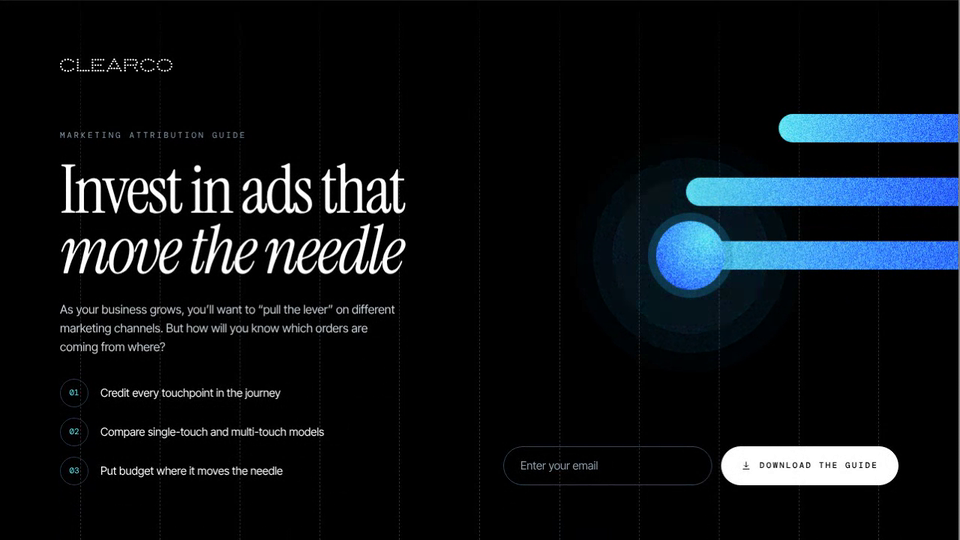
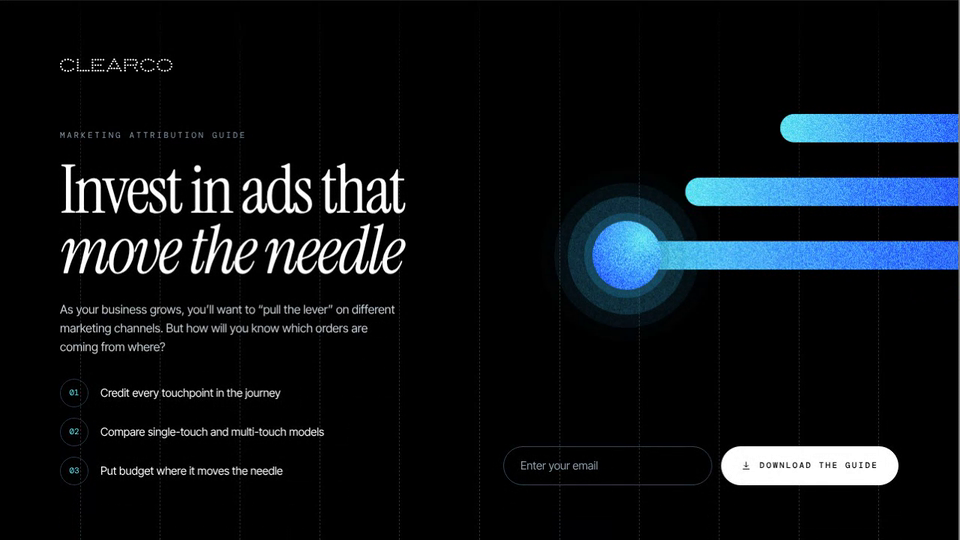
Attribution Guide: nested circles in chapter one and trail band, longer hero bar (#140)
* Add Clearco Attribution Guide landing page

Built on the Logistics Guide page with the attribution guide's brand: grainy gradient timeline pills that extend with a circle on the leading end, ripple discs, dashed guide lines, gradient numerals, and a model explorer whose vertical pills reshape per attribution model. Adds the homepage tile and clip recipe.

Claude-Session: https://claude.ai/code/session_01AHeBdyii5AjQS77wpPRRok

* Attribution Guide: remove the Track every touchpoint text and ripple circle

Claude-Session: https://claude.ai/code/session_01AHeBdyii5AjQS77wpPRRok

* Attribution Guide: hero email sign-up in the right column under the pills, divider under the hero, square edge on pills that bleed off screen

Claude-Session: https://claude.ai/code/session_01AHeBdyii5AjQS77wpPRRok

* Attribution Guide: remove the dotted background lines from the touchpoint section

Claude-Session: https://claude.ai/code/session_01AHeBdyii5AjQS77wpPRRok

* Attribution Guide: hero visual moved up; re-record clip

Claude-Session: https://claude.ai/code/session_01AHeBdyii5AjQS77wpPRRok

* Attribution Guide: narrower body text columns

Claude-Session: https://claude.ai/code/session_01AHeBdyii5AjQS77wpPRRok

* Attribution Guide: lower hero visual with tighter bars, circle and double ripple timed to the pill, sign-up aligned to the 03 row, heading line break

Claude-Session: https://claude.ai/code/session_01AHeBdyii5AjQS77wpPRRok
[…]

diff --git a/clearco-attribution-guide/index.html b/clearco-attribution-guide/index.html
@@ -68,8 +68,8 @@ section,.band{position:relative;overflow:hidden}
 .pr{right:0;border-radius:99px 0 0 99px;background:linear-gradient(270deg,var(--blue),var(--blue2) 50%,var(--cyan))}
 .pl::after,.pr::after,.hd::after,.pv::after{content:"";position:absolute;inset:0;border-radius:inherit;background:var(--grain);mix-blend-mode:overlay;opacity:.95;pointer-events:none}
 .hw{position:absolute;top:50%;width:var(--hd,56px);height:var(--hd,56px);opacity:calc(var(--p,1) * 8);transform:translateY(-50%) scale(clamp(.01,var(--p,1) * 8,1))}
-.pl .hw{right:0;margin-right:calc(var(--hd,56px) / -2)}
-.pr .hw{left:0;margin-left:calc(var(--hd,56px) / -2)}
+.pl .hw{right:0;margin-right:calc(var(--hd,56px) / -2 + var(--h,34px) / 2)}
+.pr .hw{left:0;margin-left:calc(var(--hd,56px) / -2 + var(--h,34px) / 2)}
 .hd{position:absolute;inset:0;border-radius:50%;background:radial-gradient(circle at 28% 26%,var(--cyan),var(--blue2) 62%,var(--blue));box-shadow:0 0 0 calc(var(--hd,56px) * .12) rgba(40,140,190,.3)}
 .pr .hd{background:radial-gradient(circle at 72% 26%,var(--cyan),var(--blue2) 62%,var(--blue))}
 /* ripple rings: soft grainy discs around a head that breathe outwards */
@@ -100,7 +100,6 @@ section,.band{position:relative;overflow:hidden}
 .points i{flex:none;width:38px;height:38px;border:1px solid #2b3d52;border-radius:50%;display:grid;place-items:center;font:400 11px/1 var(--mono);font-style:normal;color:var(--cyan)}
 .vis{position:relative;flex:1;margin-top:clamp(12px,1.4vw,18px);min-height:clamp(320px,34vw,440px);width:calc(100% + (100vw - min(1120px,100vw - 40px)) / 2)}
 .vis .pr{--off:calc(var(--hd,56px) * 1.9);right:calc(var(--off) * -1);width:calc((var(--w,1) * 100% + var(--off)) * var(--p,1))}
-[data-grow] .pr .hw{margin-left:calc(var(--hd,56px) / -2 + var(--h,34px) / 2)}
 [data-grow] .hd{box-shadow:0 0 0 calc(var(--hd,56px) * .12) rgba(40,140,190,calc((var(--hs,.41) - .41) * .5))}
 [data-grow] .hw{will-change:transform;opacity:1;transform:translateY(-50%) scale(var(--hs,.41))}
 [data-ripple] .rp i{animation:none;transform:translate(-50%,-50%) scale(calc(.65 + var(--e,0) * .6));opacity:calc(var(--a,0) * 1)}
@@ -299,7 +298,7 @@ footer .sign{margin-top:28px;color:#8fa0ad;font-size:14px}
     <div class="vis" data-anim="8.2" data-ripple data-grow role="img" aria-label="Three horizontal gradient pills extend in from the right edge of a black page with dashed guide lines; the longest ends in a glowing circle with ripples around it">
       <div class="pr" style="--y:12%;--h:38px;--w:.4" data-d="0.5"></div>
       <div class="pr" style="--y:30%;--h:38px;--w:.6" data-d="0.25"></div>
-      <div class="pr" style="--y:48%;--h:38px;--w:.62;--hd:92px" data-d="0"><span class="hw"><span class="rp"><i></i><i></i><i></i></span><span class="hd"></span></span></div>
+      <div class="pr" style="--y:48%;--h:38px;--w:.76;--hd:92px" data-d="0"><span class="hw"><span class="rp"><i></i><i></i><i></i></span><span class="hd"></span></span></div>
     </div>
     <form class="signup" action="https://www.clear.co/" data-guide="https://www.clear.co/" novalidate><label class="em"><span class="sr">Email address</span><input type="email" name="email" placeholder="Enter your email" autocomplete="email" required></label><button class="btn" type="submit"><svg viewBox="0 0 16 16" width="13" height="13" fill="none" stroke="currentColor" stroke-width="1.2" aria-hidden="true"><path d="M8 2v9M4.5 7.5 8 11l3.5-3.5M2.5 14h11"/></svg> Download the guide</button><p class="err" role="alert" hidden>Please enter a valid email address.</p></form>
     </div>
